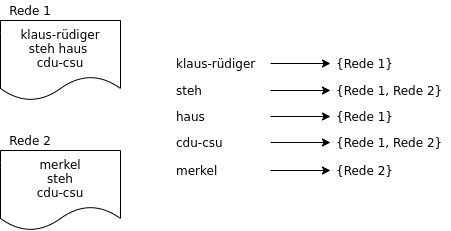
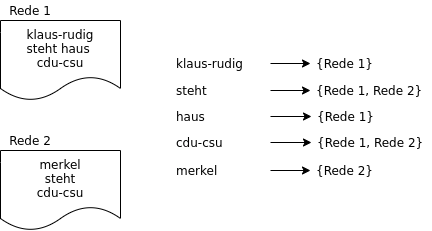
Integrate Joshas feedback

diff --git a/slides.tex b/slides.tex
@@ -52,7 +52,7 @@
 
 \begin{frame}[allowframebreaks]
   \frametitle{Basiskonzepte}
-  Peer 2 Peer
+  Peer-to-peer
   \begin{itemize}
     \item Rechnernetz
     \item Gleichtberechtigte Knoten
@@ -94,22 +94,22 @@
     \includegraphics[width=\paperwidth]{drakememe}
 \end{frame}
 
-\section{Arbeitsteilung}
+\section{Aufgabenteilung}
 \begin{frame}
   \begin{center}
-    {\Huge Arbeitsteilung}
+    {\Huge Aufgabenteilung}
   \end{center}
 \end{frame}
 
-\begin{frame}[allowframebreaks]
-  \frametitle{Arbeitspakete}
+% \begin{frame}[allowframebreaks]
+%   \frametitle{Arbeitspakete}
 
-  \includegraphics[width=5cm]{Arbeitspakete}
-  \break
-  \includegraphics[width=5cm]{Arbeitspakete-Crawler}
-  \break
-  \includegraphics[width=5cm]{Arbeitspakete-Main}
-\end{frame}
+%   \includegraphics[width=5cm]{Arbeitspakete}
+%   \break
+%   \includegraphics[width=5cm]{Arbeitspakete-Crawler}
+%   \break
+%   \includegraphics[width=5cm]{Arbeitspakete-Main}
+% \end{frame}
 
 \begin{frame}
   \frametitle{Schichtenmodell}
@@ -237,17 +237,17 @@
 
   Modi:
   \begin{enumerate}
-    \item Indexieren von Daten
+    \item Indexierungsphase
       \begin{enumerate}[a]
-        \item Vorbereiten der Daten
+        \item Aufbereitung der Daten
         \item Einfügen in Invertierten Index
       \end{enumerate}
-    \item Abrufen von Daten
+    \item Anfragephase
   \end{enumerate}
 \end{frame}
 
 \begin{frame}[allowframebreaks]
-  \frametitle{1a. Vorbereiten von Daten}
+  \frametitle{1a. Aufbereiten der Daten}
 
   Beispiel:
 
@@ -293,11 +293,12 @@
 
   \begin{itemize}
     \item Zurückführung auf den Wortstamm
+    \item Snowball Stemming
   \end{itemize}
 
   \bigskip
 
-  'klaus-rüdiger' \textbf{'steht' $\rightarrow$ 'steh'} \textbf{'hause' $\rightarrow$ 'haus'} 'cdu'
+  \textbf{'klaus-rüdiger' $\rightarrow$ 'klaus-rudig'} 'steht' \textbf{'hause' $\rightarrow$ 'haus'} 'cdu'
 
   \break
 
@@ -307,7 +308,7 @@
 
   \bigskip
 
-  'klaus-rüdiger' 'steh' 'haus' \textbf{'cdu' $\rightarrow$ 'cdu-csu'}
+  'klaus-rudig' 'steh' 'haus' \textbf{'cdu' $\rightarrow$ 'cdu-csu'}
 \end{frame}
 
 \begin{frame}
@@ -371,8 +372,9 @@
   \begin{itemize}
     \item Langsam beim Einfügen
       \begin{itemize}
-        \item $\rightarrow$ 2-3 min mit Optimierungen
         \item $\rightarrow$ Relevanz für den Use Case
+        \item $\rightarrow$ bei uns: 2-3 min pro Protokoll
+        \item Optimierungen möglich
       \end{itemize}
   \end{itemize}
 
@@ -390,7 +392,6 @@
   Pro:
   \begin{itemize}
     \item Schnell beim Einfügen (lokales Speichern in Sekunden)
-    \item Redundanz für einzelne Keywords
   \end{itemize}
   Con:
   \begin{itemize}
@@ -400,10 +401,10 @@
 \end{frame}
 
 \begin{frame}
-  \frametitle{2. Abrufen von Daten}
+  \frametitle{2. Anfragephase}
 
   \begin{itemize}
-    \item Vorbereitung der Suchbegriffe (Tokenisation, etc.)
+    \item Aufbereiten der Suchbegriffe (Tokenisierung, etc.)
     \item Abrufen der Daten aus Distributed Inverted Index
     \item Bewertung der Relevanz (sortieren)
   \end{itemize}
